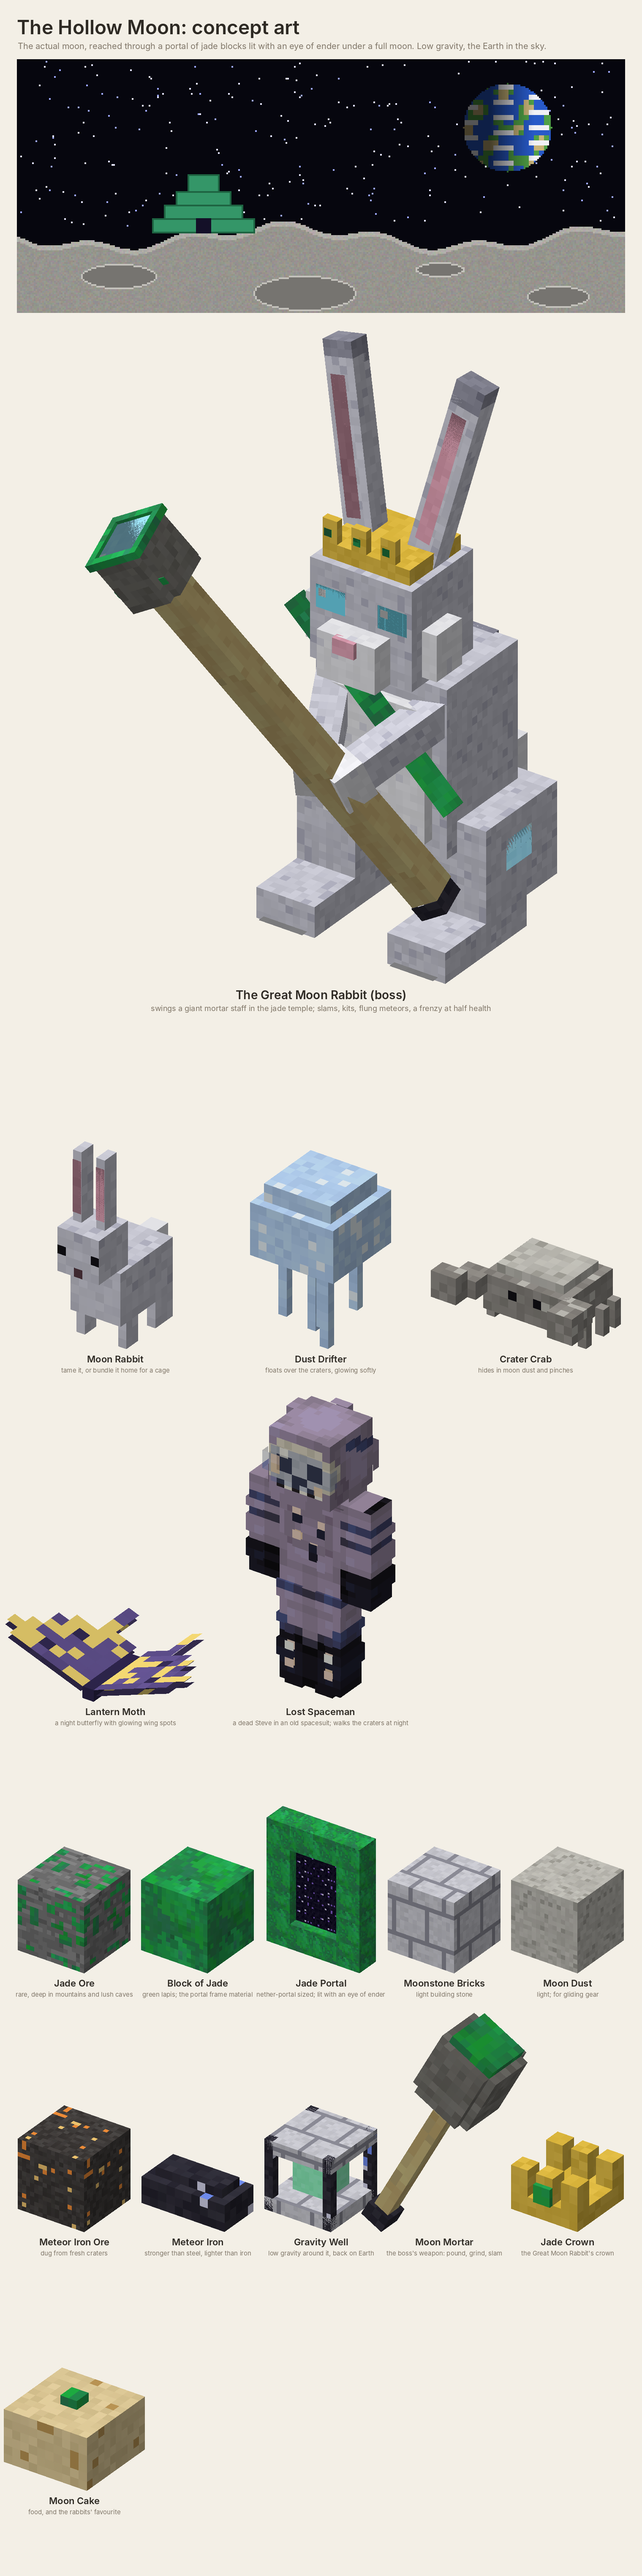
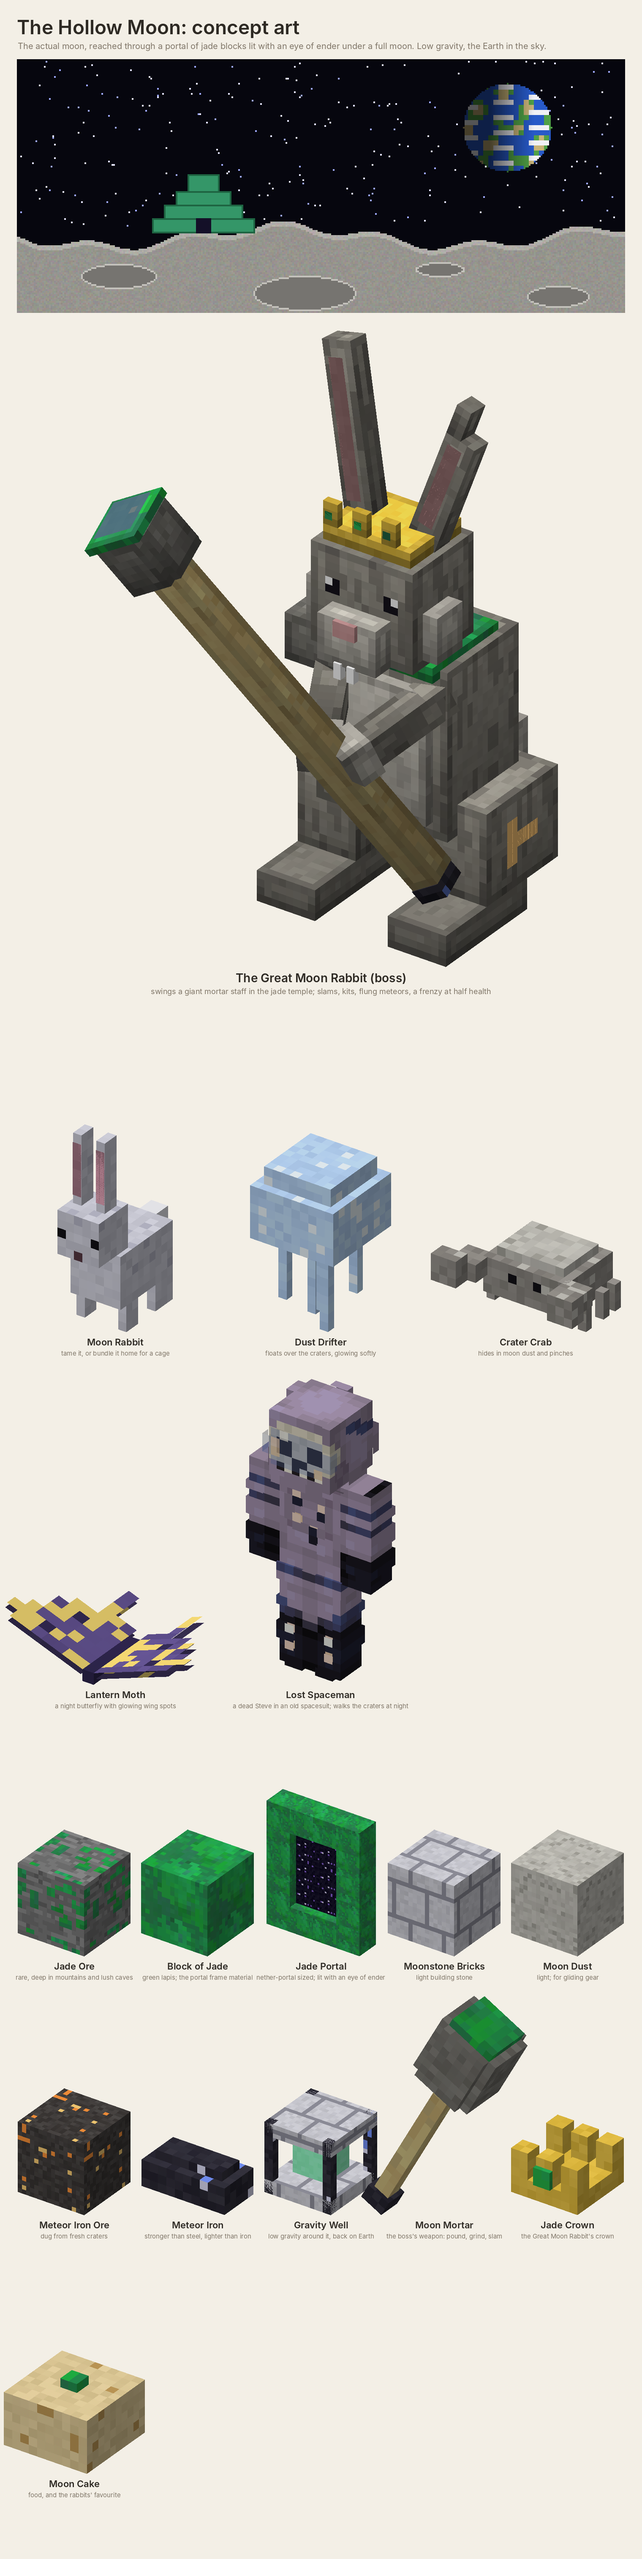
Moon concept: the chosen Great Moon Rabbit (moon-dust, vanilla-rabbit eyes)
Claude-Session: https://claude.ai/code/session_01M5QtgiQGYPBXfdb72XCowG

diff --git a/tools/moon_concept.py b/tools/moon_concept.py
@@ -241,7 +241,8 @@ def lantern_moth_texture():
 
 def sheet(out):
     BG, INK, SUB = (243, 239, 230), (46, 42, 36), (128, 118, 104)
-    big = great_rabbit_detailed().draw(2.1)
+    import moon_boss_original as MB                # the chosen boss: moon-dust fur, bigger vanilla-rabbit eyes
+    yaw = R.YAW; R.YAW = math.radians(-35); big = MB.rabbit("dust", None, None, MB.vrabbit_big).draw(2.1); R.YAW = yaw
     crs = [(n, s, f().draw(sc)) for n, s, f, sc in CREATURES]
     skin = os.path.join(os.path.dirname(os.path.abspath(__file__)), "..", "docs", "lost_spaceman_skin.png")
     if os.path.exists(skin):                       # the spaceman uses its real player-layout skin (tools/spaceman_skin.py)

diff --git a/ROADMAP.md b/ROADMAP.md
@@ -267,7 +267,9 @@ something back to the overworld, so it's worth the trip. All in the same vanilla
     bound with meteor iron, makes **Gravity Wells**: blocks that set a low-gravity
     field around them back on Earth. That means floaty jumps, slow falls and items that drift instead of drop, for
     sky bridges, safe drops, jump pads, low-gravity arenas and parkour. Nothing else gives it.
-  - **The boss: the Great Moon Rabbit.** (Our own design in vanilla's boss style, with its eclipse phase: docs/moon_boss_original.png)
+  - **The boss: the Great Moon Rabbit.** (Our own design in vanilla's boss style: moon-dust fur with bigger vanilla-rabbit eyes, [docs/moon_boss_rabbit_eyes.png](docs/moon_boss_rabbit_eyes.png))
+    ![The Great Moon Rabbit](docs/moon_boss_rabbit_eyes.png)
+
     A giant crowned rabbit in the heart of the jade temple, wielding a
     giant mortar staff (a stone mortar on a long haft) as its weapon, a nod to the old moon-rabbit legends. It leaps around the arena:
     - Ground slams that throw you up in the low gravity.
